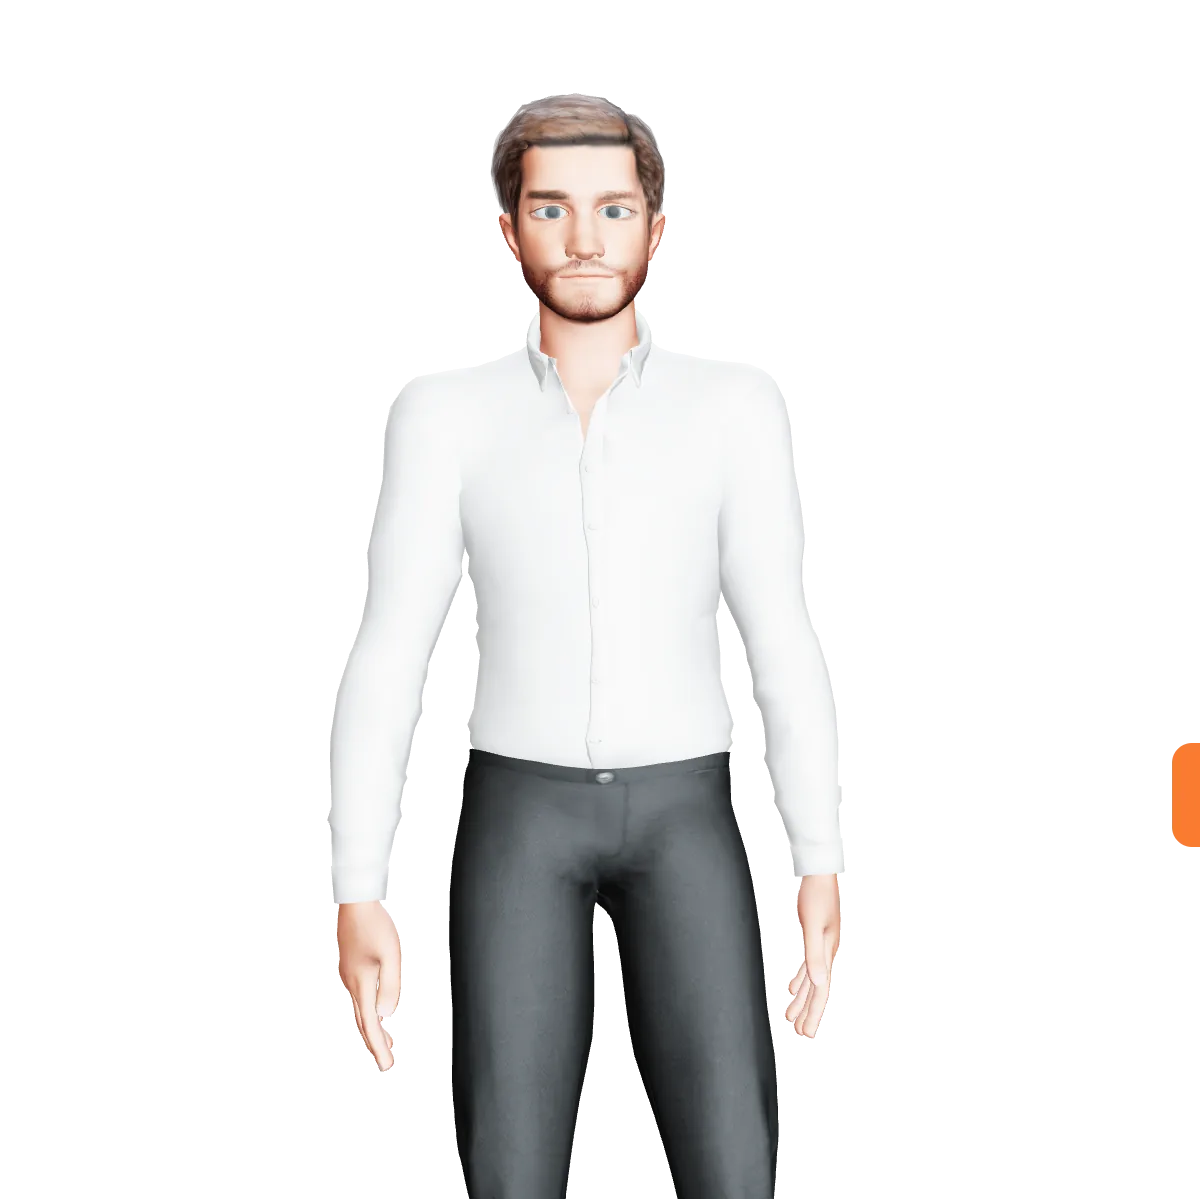
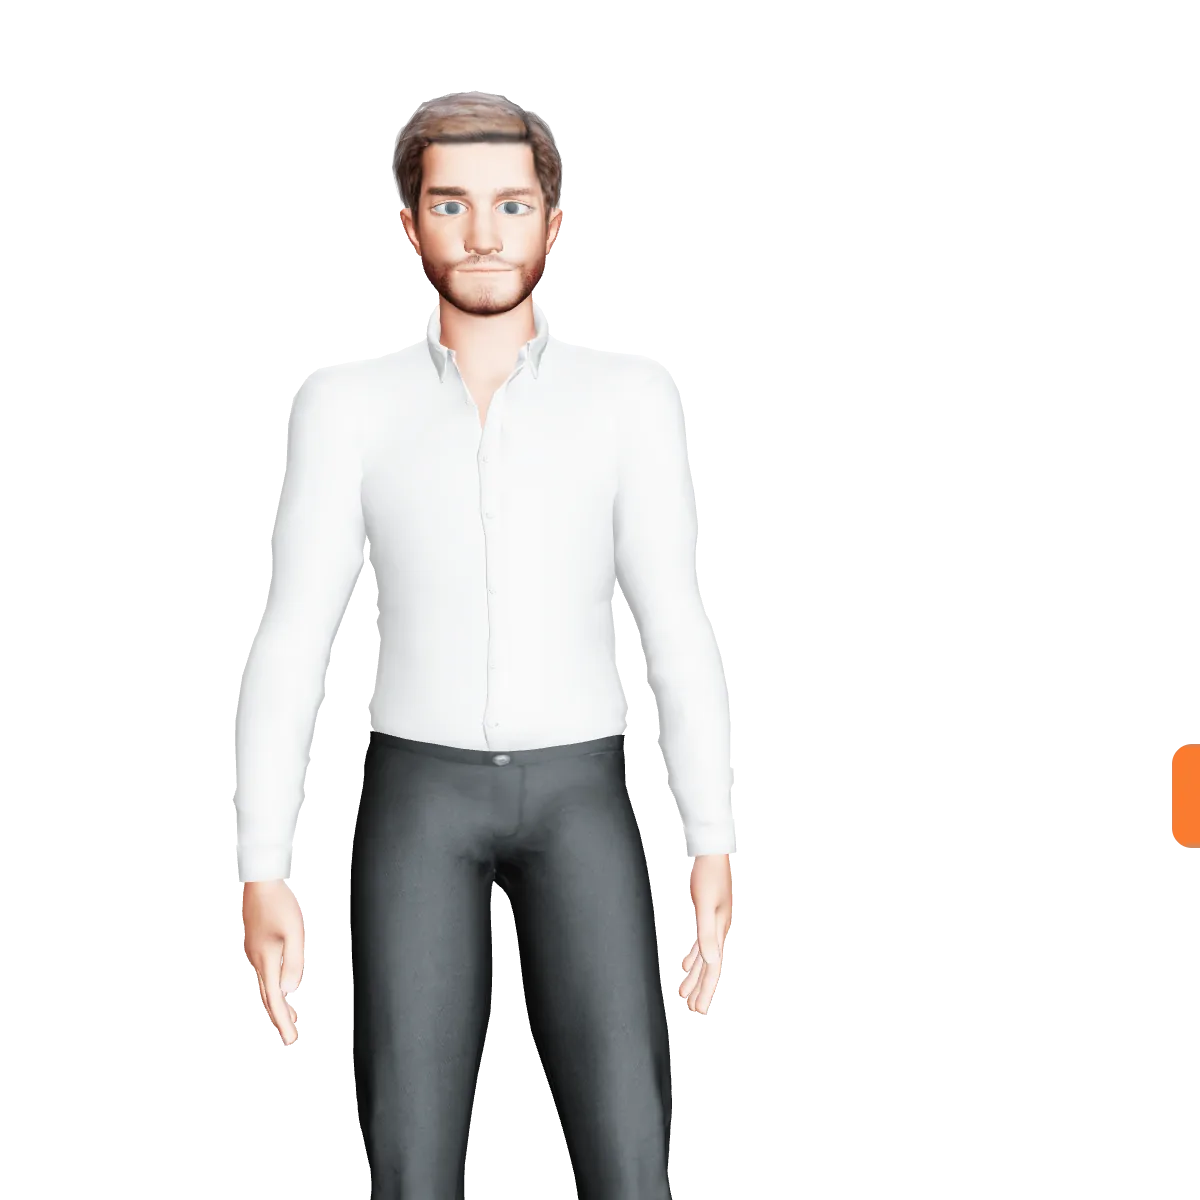
Offer the palm to the close's Try a lesson, as the hero does
Pointing at or focusing the close's Try a lesson gets the hero's offer:
his left palm up towards it (PresentModel, aimed), his head and eyes on
it. The close is framed like the hero, him on the left with a reach kept
in the box for the offer and either wave. The hero's reach grows to 0.22:
its offer, triggered for real at last in bounds.cjs (a dispatched
pointerenter never reaches React), came within 3 px of the edge. Both
posters recaptured.

Changed region(s): [[0.185, 0.3392, 0.7092, 1.0], [0.3083, 0.0617, 0.555, 0.37], [0.2158, 0.3083, 0.2775, 0.5242]]

diff --git a/src/components/landing/stage/LandingStage.tsx b/src/components/landing/stage/LandingStage.tsx
@@ -205,7 +205,7 @@ const WITHHELD: ReadonlySet<string> = new Set(["Pointing"]);
  */
 const HERO_WITHHELD: ReadonlySet<string> = new Set(["Pointing", "Talking6"]);
 /** The spots where a gesture's hand is aimed at its target. */
-const AIMED: ReadonlySet<SpotId> = new Set(["hero", "picture", "remember", "room"]);
+const AIMED: ReadonlySet<SpotId> = new Set(["hero", "picture", "remember", "room", "close"]);
 
 /**
  * The gesture target at a spot now, or null when no gesture is aimed: an element on the page (the hero's button, the
@@ -216,6 +216,9 @@ function gestureAt(spot: SpotId, t: number): { el: Element; z: number } | { worl
     const look = shared.hero.look;
     return look && performance.now() < look.until ? { el: look.el, z: GESTURE_Z } : null;
   }
+  if (spot === "close") {
+    const look = shared.close.look;
+    return look && performance.now() < look.until ? { el: look.el, z: GESTURE_Z } : null;
   }
   if (spot === "picture" && t >= PICTURE_T.point[0] && t < PICTURE_T.point[1]) return { world: PICTURE_AIM };
   // The room: the cross-section, then its magma chamber as he names it (room.ts).
@@ -323,7 +326,7 @@ function SpotTeacher({ spot, warm, greet, lookTargets }: { spot: SpotId; warm: b
       const s = spot === "room"
         ? roomSignals(clockOf("room").t, shared.speaking)
         : signalsFor(spot, {
-          liveFor, t: clockOf(SECTION_OF[spot]).t, mayWave: mayWave && !hold, speaking: shared.speaking, hover: h.hover, seq: h.seq,
+          liveFor, t: clockOf(SECTION_OF[spot]).t, mayWave: mayWave && !hold, speaking: shared.speaking, hover: spot === "close" ? shared.close.hover : h.hover, seq: h.seq,
         });
       // The model's still is its end with Jake presenting: the section shows its end at once, so the model's edge comes
       // half a second after he is live instead.
@@ -342,8 +345,8 @@ function SpotTeacher({ spot, warm, greet, lookTargets }: { spot: SpotId; warm: b
     // (aim.ts), the same point the head and eyes go to. At the idea spot, his palms are reported for the flute he holds.
     afterPose: (root, delta) => {
       if (AIMED.has(spot)) {
-        // The pointing spots aim the finger too; the hero's open palm only the arm and the wrist.
-        aim.current ??= createAim(root, "L", { finger: spot !== "hero" });
+        // The pointing spots aim the finger too; the open palm (the hero's and the close's offer) only the arm and wrist.
+        aim.current ??= createAim(root, "L", { finger: spot !== "hero" && spot !== "close" });
         // The aimed point glides to a new target (It Remembers moves the finger from one review point to the next)
         // and is taken at once when a gesture starts.
         const [tx, ty, tz] = TARGET[spot];

diff --git a/src/components/landing/sections/Close.tsx b/src/components/landing/sections/Close.tsx
@@ -4,7 +4,8 @@ import { ArrowRight } from "lucide-react";
 import { cn } from "@/lib/utils";
 import { CLOSE } from "../content";
 import { Spot } from "../Spot";
-import { enterClose } from "../stage/host";
+import { enterClose, host } from "../stage/host";
+import { shared } from "../stage/shared";
 import { BTN_LG, BTN_PRIMARY, LEDE, WRAP } from "../ui";
 
 /**
@@ -12,15 +13,31 @@ import { BTN_LG, BTN_PRIMARY, LEDE, WRAP } from "../ui";
  * stays in view, so it leaves only upwards; scrolled up part way it is still the active spot, with no remount of its own).
  */
 const IN_VIEW = 0.5;
+/** A call to action earns one offer at most this often; he looks at it while the offer plays (as the hero). */
+const REACT_EVERY_MS = 3000;
+const GESTURE_LOOK_MS = 3000;
 const OUT_OF_VIEW = 0.25;
 
 /**
  * The close (V8.3b): the closing line in wide caps, one call to action, and Jake beside it, who waves goodbye each time
  * his box comes into view (half of it, after under a quarter of it was), unless he waved there in the last 8 s (host.ts
- * enterClose; the stage remounts him there and a fresh mount waves).
+ * enterClose; the stage remounts him there and a fresh mount waves). Pointing at or focusing Try a lesson earns the
+ * hero's offer: his left palm up towards it, his head and eyes on it.
  */
 export function Close() {
   const section = useRef<HTMLElement>(null);
+  const lastReact = useRef(0);
+  // Pointing at, or focusing, Try a lesson: his left palm offered towards it, his head and eyes on it (the hero's offer,
+  // LandingStage gestureAt). Only while he is live here.
+  const hover = (on: boolean) => (e: { currentTarget: HTMLElement }) => {
+    if (on) {
+      const now = performance.now();
+      if (host.live !== "close" || now - lastReact.current < REACT_EVERY_MS) return;
+      lastReact.current = now;
+      shared.close.look = { el: e.currentTarget, until: now + GESTURE_LOOK_MS };
+    }
+    shared.close.hover = on ? "try" : null;
+  };
   useEffect(() => {
     const box = section.current?.querySelector("[data-spot=close]");
     if (!box) return;
@@ -41,7 +58,11 @@ export function Close() {
             {CLOSE.title}
           </h2>
           <p className={LEDE}>{CLOSE.line}</p>
-          <Link href="/demo" className={cn(BTN_PRIMARY, BTN_LG, "mt-1 w-full sm:w-auto")}>
+          <Link
+            href="/demo"
+            onPointerEnter={hover(true)} onPointerLeave={hover(false)} onFocus={hover(true)} onBlur={hover(false)}
+            className={cn(BTN_PRIMARY, BTN_LG, "mt-1 w-full sm:w-auto")}
+          >
             Try a lesson
             <ArrowRight className="size-4" strokeWidth={2.4} />
           </Link>

diff --git a/src/components/landing/stage/spots.ts b/src/components/landing/stage/spots.ts
@@ -47,8 +47,8 @@ export interface SpotFraming {
 export const SPOTS: Record<FramedSpotId, SpotFraming> = {
   // The hero has him on the left, a little closer, with his reach to his left (screen right, towards the buttons)
   // kept in frame: his right arm at rest (-1.42, its hand to about -1.47, with a margin) to past his offering
-  // fingertip (PresentModel, 0.01).
-  hero: { top: 1.02, bottom: -0.7, x: -1, fx: 0.26, need: [-1.56, 0.1] },
+  // fingertip, aimed at the button (PresentModel: to about 0.1; measured 3 px from the edge with 0.1, so 0.22).
+  hero: { top: 1.02, bottom: -0.7, x: -1, fx: 0.26, need: [-1.56, 0.22] },
   // A Teacher of Your Own: him alone, centred, his hands in front of his chest (HoldIdea).
   idea: { top: 1.02, bottom: -0.98, x: -1, fx: 0.5, need: [-1.55, -0.45] },
   // It Draws a Diagram: him on the left and, to his left, the classroom board's own place (Experience SCENE_*: centre
@@ -65,7 +65,9 @@ export const SPOTS: Record<FramedSpotId, SpotFraming> = {
   // It Remembers What You Know: as the picture spot, him on the left and, at the board's place, the paper card whose
   // review points he taps (PointNear, aimed).
   remember: { top: 1.02, bottom: -1.1, x: -1, fx: 0.2, need: [-1.7, 1.24] },
-  close: { top: 1.02, bottom: -0.98, x: -1, fx: 0.5 },
+  // The close: as the hero, him on the left and Try a lesson to his left (screen right). `need` keeps his offered
+  // fingertip (PresentModel towards the button, about 0.1) and either wave (the right hand reaches about -1.75) in the box.
+  close: { top: 1.02, bottom: -0.98, x: -1, fx: 0.42, need: [-1.85, 0.2] },
 };
 
 /** The board spots' box aspect (width / height): Jake and the board, -1.55 to 1.21 m across, 2.12 m high. */

diff --git a/src/components/landing/stage/spots.test.ts b/src/components/landing/stage/spots.test.ts
@@ -3,10 +3,10 @@ import { CAPTURE_ASPECT, EYE, SPOTS, TEACHER, frustumFor, pickSpot, project, sti
 
 describe("frustumFor", () => {
   it("shows the spot's vertical range edge to edge", () => {
-    const f = frustumFor(SPOTS.close, 0.9);
+    const f = frustumFor(SPOTS.model, 0.9);
     const d = EYE[2] - TEACHER.position[2];
-    expect(f.top * d + EYE[1]).toBeCloseTo(SPOTS.close.top);
-    expect(f.bottom * d + EYE[1]).toBeCloseTo(SPOTS.close.bottom);
+    expect(f.top * d + EYE[1]).toBeCloseTo(SPOTS.model.top);
+    expect(f.bottom * d + EYE[1]).toBeCloseTo(SPOTS.model.bottom);
   });
 
   it("puts the spot's x at fx of the width, whatever the aspect", () => {
@@ -18,14 +18,14 @@ describe("frustumFor", () => {
   });
 
   it("keeps the proportions: the width follows the aspect at the same scale as the height", () => {
-    const f = frustumFor(SPOTS.close, 1.25);
+    const f = frustumFor(SPOTS.model, 1.25);
     expect((f.right - f.left) / (f.top - f.bottom)).toBeCloseTo(1.25);
   });
 
   it("maps the top and bottom of the range to the box's top and bottom", () => {
-    const f = frustumFor(SPOTS.close, 1);
-    expect(project(f, [-1, SPOTS.close.top, TEACHER.position[2]]).v).toBeCloseTo(0);
-    expect(project(f, [-1, SPOTS.close.bottom, TEACHER.position[2]]).v).toBeCloseTo(1);
+    const f = frustumFor(SPOTS.model, 1);
+    expect(project(f, [-1, SPOTS.model.top, TEACHER.position[2]]).v).toBeCloseTo(0);
+    expect(project(f, [-1, SPOTS.model.bottom, TEACHER.position[2]]).v).toBeCloseTo(1);
   });
 
   it("frames Jake from above his head: to mid-thigh, or the upper thigh in the closer hero", () => {

diff --git a/src/components/landing/stage/shared.ts b/src/components/landing/stage/shared.ts
@@ -54,10 +54,11 @@ export interface Shared {
   /**
    * When each spot's greeting was last on (performance.now seconds), for the wave's cool-down; and the close's entries,
    * bumped each time the close comes into view once the cool-down has passed, so the teacher there remounts and waves,
-   * with when the teacher there last mounted (seconds; an entry that brings him there fresh needs no remount).
+   * with when the teacher there last mounted (seconds; an entry that brings him there fresh needs no remount). The
+   * close's Try a lesson earns the hero's palm-up offer: `hover` and `look` as the hero's (Close.tsx writes them).
    */
   waves: Partial<Record<string, number>>;
-  close: { enter: number; mountedAt: number };
+  close: { enter: number; mountedAt: number; hover: "try" | null; look: { el: HTMLElement; until: number } | null };
 }
 
 const initial = (): Shared => ({
@@ -67,7 +68,7 @@ const initial = (): Shared => ({
   moves: { run: 0 },
   room: { near: false, ready: false, failed: false, yaw: 0, pitch: 0, dragging: false },
   waves: {},
-  close: { enter: 0, mountedAt: Number.NEGATIVE_INFINITY },
+  close: { enter: 0, mountedAt: Number.NEGATIVE_INFINITY, hover: null, look: null },
 });
 
 export const shared: Shared = initial();

diff --git a/src/components/landing/stage/scripts.test.ts b/src/components/landing/stage/scripts.test.ts
@@ -62,11 +62,13 @@ describe("the hero's reactions", () => {
     expect(signalsFor("hero", { ...ctx, hover: "try", seq: 3 }).modelShown).toBe(true);
     expect(signalsFor("hero", { ...ctx, hover: null, seq: 3 }).modelShown).toBe(false);
   });
-  it("does nothing extra with no hover, and never outside the hero", () => {
+  it("does nothing extra with no hover, and only at the hero and the close's Try a lesson", () => {
     const s = signalsFor("hero", { ...ctx, hover: null, seq: 5 });
     expect(s.segmentId).toBeNull();
     expect(s.reaction).toBeNull();
-    expect(signalsFor("close", { ...ctx, hover: "try", seq: 5 }).modelShown).toBe(false);
+    expect(signalsFor("close", { ...ctx, hover: "try", seq: 5 }).modelShown).toBe(true);
+    expect(signalsFor("close", { ...ctx, hover: null, seq: 5 }).modelShown).toBe(false);
+    expect(signalsFor("idea", { ...ctx, hover: "try", seq: 5 }).modelShown).toBe(false);
   });
 });
 

diff --git a/src/components/landing/stage/scripts.ts b/src/components/landing/stage/scripts.ts
@@ -127,8 +127,10 @@ export function signalsFor(spot: SpotId, ctx: SpotContext): DirectorSignals {
       s.modelShown = ctx.hover === "try";
       break;
     case "close":
-      // The product's greeting: sceneReady's rising edge plays the wave, once per mount.
+      // The product's greeting: sceneReady's rising edge plays the wave, once per mount. Try a lesson here earns the
+      // hero's offer: his left palm up towards it (PresentModel), his head and eyes on it.
       s.sceneReady = ctx.mayWave && ctx.liveFor >= WAVE_AFTER_S;
+      s.modelShown = ctx.hover === "try";
       break;
     case "idea":
       // The product's explain beat: a new explain segment plays HoldIdea once (hands in front of the chest, palms
